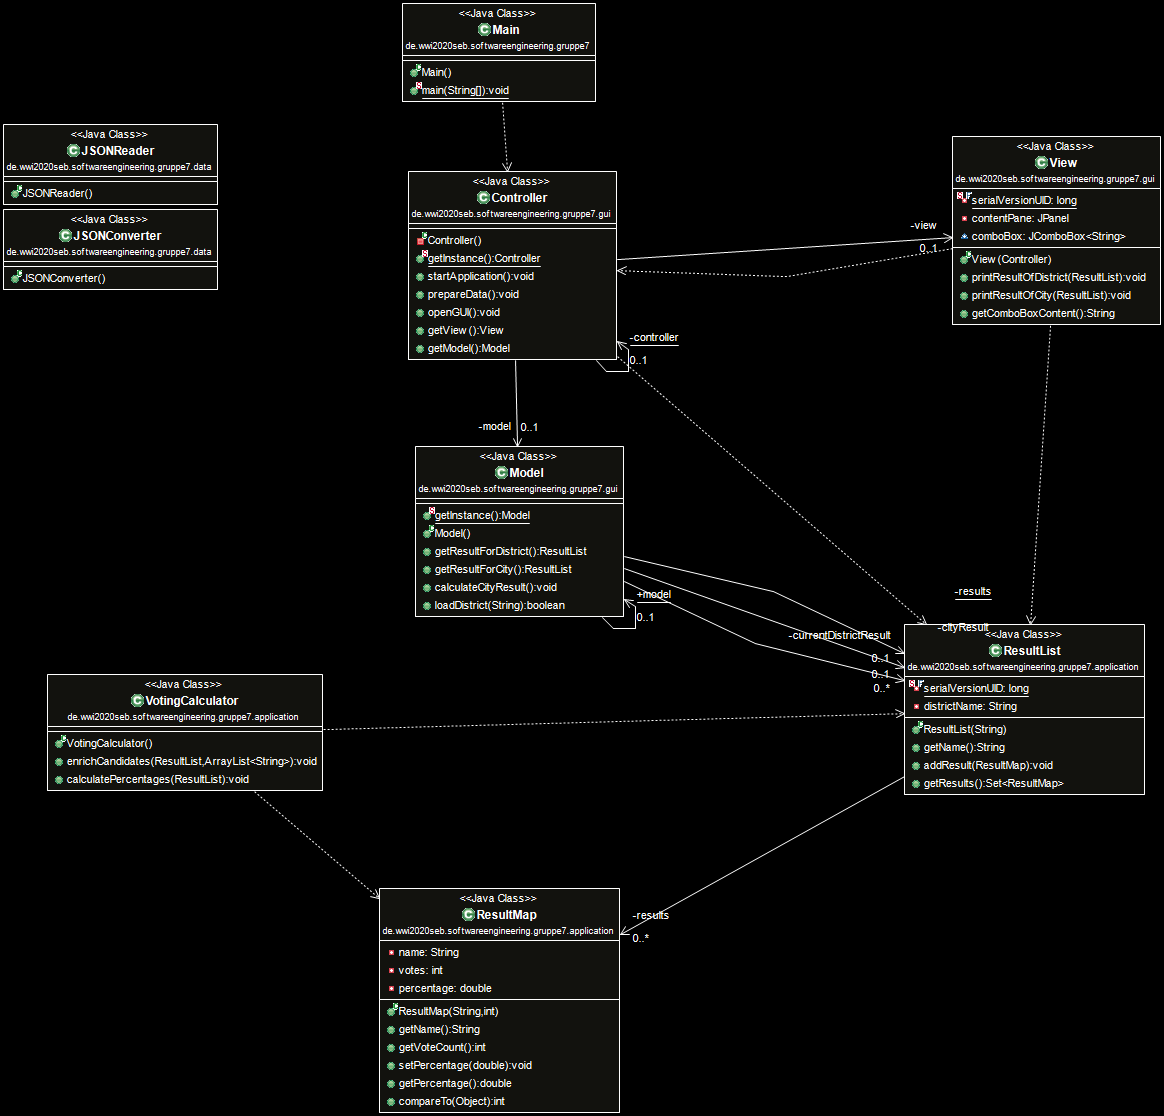
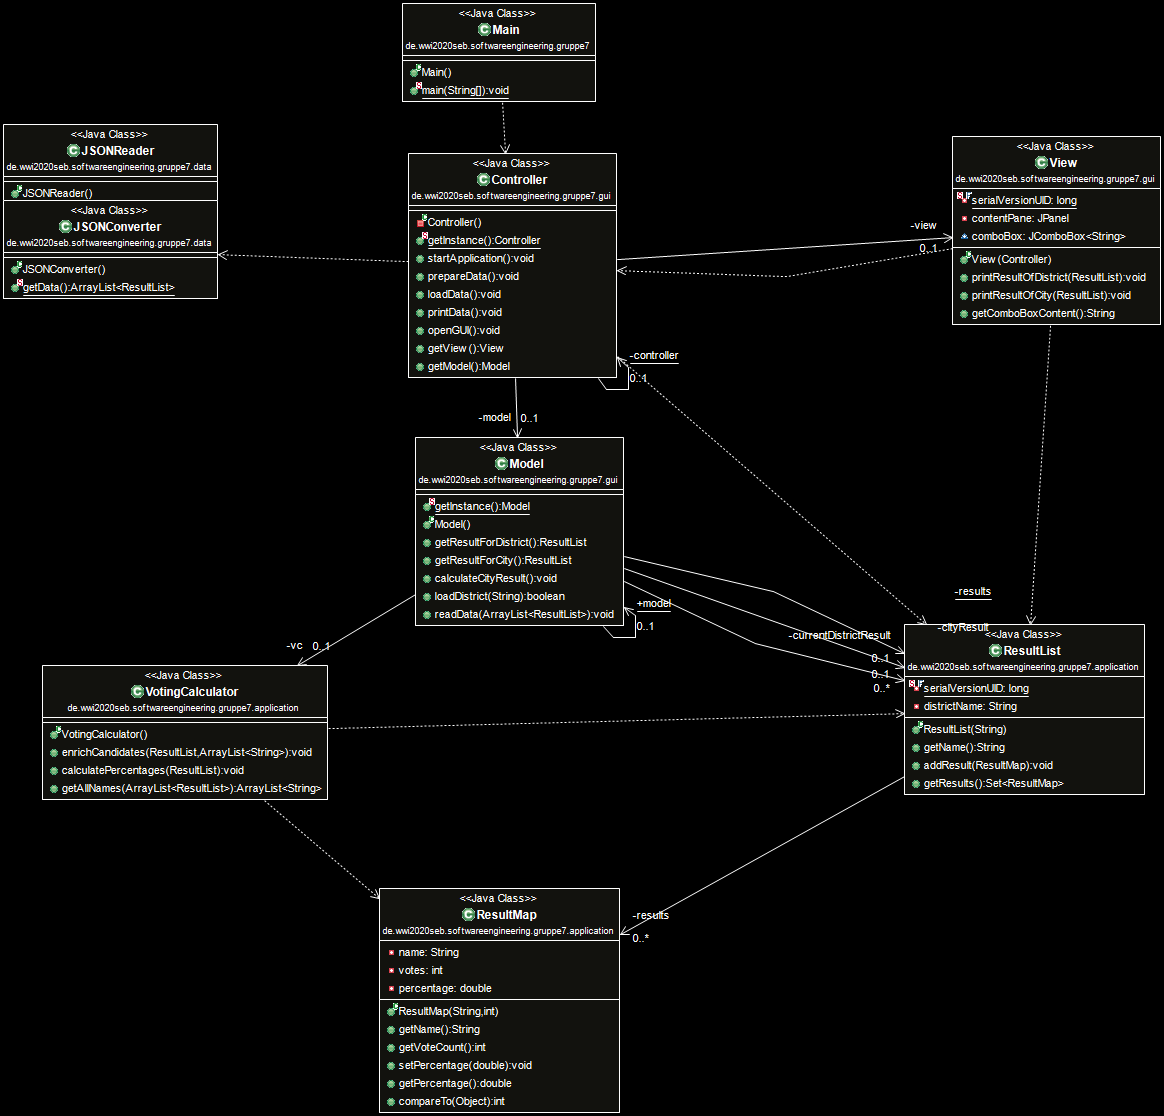
Update Model + methods

diff --git a/Wahlstatistik/src/de/wwi2020seb/softwareengineering/gruppe7/gui/Controller.java b/Wahlstatistik/src/de/wwi2020seb/softwareengineering/gruppe7/gui/Controller.java
@@ -3,6 +3,8 @@ package de.wwi2020seb.softwareengineering.gruppe7.gui;
 import java.awt.event.ActionEvent;
 import java.awt.event.ActionListener;
 
+import de.wwi2020seb.softwareengineering.gruppe7.application.VotingManager;
+
 public class Controller {
 	
 	private Model model;
@@ -11,6 +13,10 @@ public class Controller {
 	
 	private Controller() {
 		model = Model.getInstance();
+		/*
+		 * Aus dem Reader kommt eine ArrayList vom Typ ResultList zurueck
+		 */
+		model.readData(VotingManager.getData());
 	}
 
 	public static Controller getInstance() {
@@ -26,18 +32,26 @@ public class Controller {
 	}
 	
 	public void prepareData() {
+		loadData();
+		model.calculateCityResult();
+	}
+	
+	public void loadData() {
 		String district = view.getComboBoxContent();
 		if(!model.loadDistrict(district)) {
 			/*
 			 * Exception
 			 */
 		};
-		model.calculateCityResult();
+	}
+	
+	public void printData() {
+		view.printResultOfCity(model.getResultForCity());
+		view.printResultOfDistrict(model.getResultForDistrict());
 	}
 	
 	public void openGUI() {
-		view.printResultOfCity(model.getResultForCity());
-		view.printResultOfDistrict(model.getResultForDistrict());
+		printData();
 		view.setVisible(true);
 	}
 	
@@ -49,21 +63,14 @@ public class Controller {
 		return model;
 	}
 	
-	class ComboBoxListener implements ActionListener {
-
-		private View v;
-		private Model m;
+	public class ComboBoxListener implements ActionListener {
 		
-		public ComboBoxListener(View v, Model m) {
-			this.v = v;
-			this.m = m;
-		}
+		public ComboBoxListener() { }
 
 		@Override
 		public void actionPerformed(ActionEvent e) {
-			
-			
-			
+			loadData();
+			printData();
 		}
 
 	}

diff --git a/Wahlstatistik/src/de/wwi2020seb/softwareengineering/gruppe7/gui/Model.java b/Wahlstatistik/src/de/wwi2020seb/softwareengineering/gruppe7/gui/Model.java
@@ -3,13 +3,15 @@ package de.wwi2020seb.softwareengineering.gruppe7.gui;
 import java.util.ArrayList;
 
 import de.wwi2020seb.softwareengineering.gruppe7.application.ResultList;
+import de.wwi2020seb.softwareengineering.gruppe7.application.VotingCalculator;
 
 public class Model {
 	
 	public static Model model;
-	private static ArrayList<ResultList> results;
+	private ArrayList<ResultList> results;
 	private ResultList cityResult;
 	private ResultList currentDistrictResult = null;
+	private VotingCalculator vc = new VotingCalculator();
 
 	public static Model getInstance() {
 		if(model == null) {
@@ -48,6 +50,17 @@ public class Model {
 			}
 		}
 		return false;
+	}
+
+	public void readData(ArrayList<ResultList> data) {
+		
+		this.results = data;
+		ArrayList<String> names = vc.getAllNames(this.results);
+		for(ResultList r : this.results) {
+			vc.calculatePercentages(r);
+			vc.enrichCandidates(r, names);
+		}
+		
 	}
 
 }

diff --git a/Wahlstatistik/src/de/wwi2020seb/softwareengineering/gruppe7/gui/View.java b/Wahlstatistik/src/de/wwi2020seb/softwareengineering/gruppe7/gui/View.java
@@ -37,14 +37,7 @@ public class View extends JFrame {
 		comboBox = new JComboBox<String>();
 		comboBox.setBounds(268, 63, 140, 22);
 		contentPane.add(comboBox);
-		comboBox.addActionListener(new ActionListener() {
-			@Override
-			public void actionPerformed(ActionEvent e) {
-				/*
-				 * auslagern 
-				 */
-			}
-		});
+		comboBox.addActionListener(controller.new ComboBoxListener());
 	}
 	
 	public void printResultOfDistrict(ResultList result) {

diff --git a/Wahlstatistik/src/de/wwi2020seb/softwareengineering/gruppe7/application/VotingCalculator.java b/Wahlstatistik/src/de/wwi2020seb/softwareengineering/gruppe7/application/VotingCalculator.java
@@ -31,4 +31,15 @@ public class VotingCalculator {
 		}
 	}
 	
+	public ArrayList<String> getAllNames(ArrayList<ResultList> results) {
+		ArrayList<String> names = new ArrayList<>();
+		for(ResultList r : results) {
+			for(ResultMap m : r.getResults()) {
+				if(!names.contains(m.getName()))
+					names.add(m.getName());
+			}
+		}
+		return names;
+	}
+	
 }

diff --git a/Wahlstatistik/src/de/wwi2020seb/softwareengineering/gruppe7/data/JSONConverter.java b/Wahlstatistik/src/de/wwi2020seb/softwareengineering/gruppe7/data/JSONConverter.java
@@ -1,7 +1,13 @@
 package de.wwi2020seb.softwareengineering.gruppe7.data;
 
+import java.util.ArrayList;
+
+import de.wwi2020seb.softwareengineering.gruppe7.application.ResultList;
+
 public class JSONConverter {
-/*
- * Konvertiert die JSON in DistrictResultLists
- */
+
+	public static ArrayList<ResultList> getData() {
+		return null;
+	}
+	
 }

diff --git a/Wahlstatistik/src/de/wwi2020seb/softwareengineering/gruppe7/application/VotingManager.java b/Wahlstatistik/src/de/wwi2020seb/softwareengineering/gruppe7/application/VotingManager.java
@@ -1,0 +1,13 @@
+package de.wwi2020seb.softwareengineering.gruppe7.application;
+
+import java.util.ArrayList;
+
+import de.wwi2020seb.softwareengineering.gruppe7.data.JSONConverter;
+
+public class VotingManager {
+
+	public static ArrayList<ResultList> getData() {
+		return JSONConverter.getData();
+	}
+	
+}
